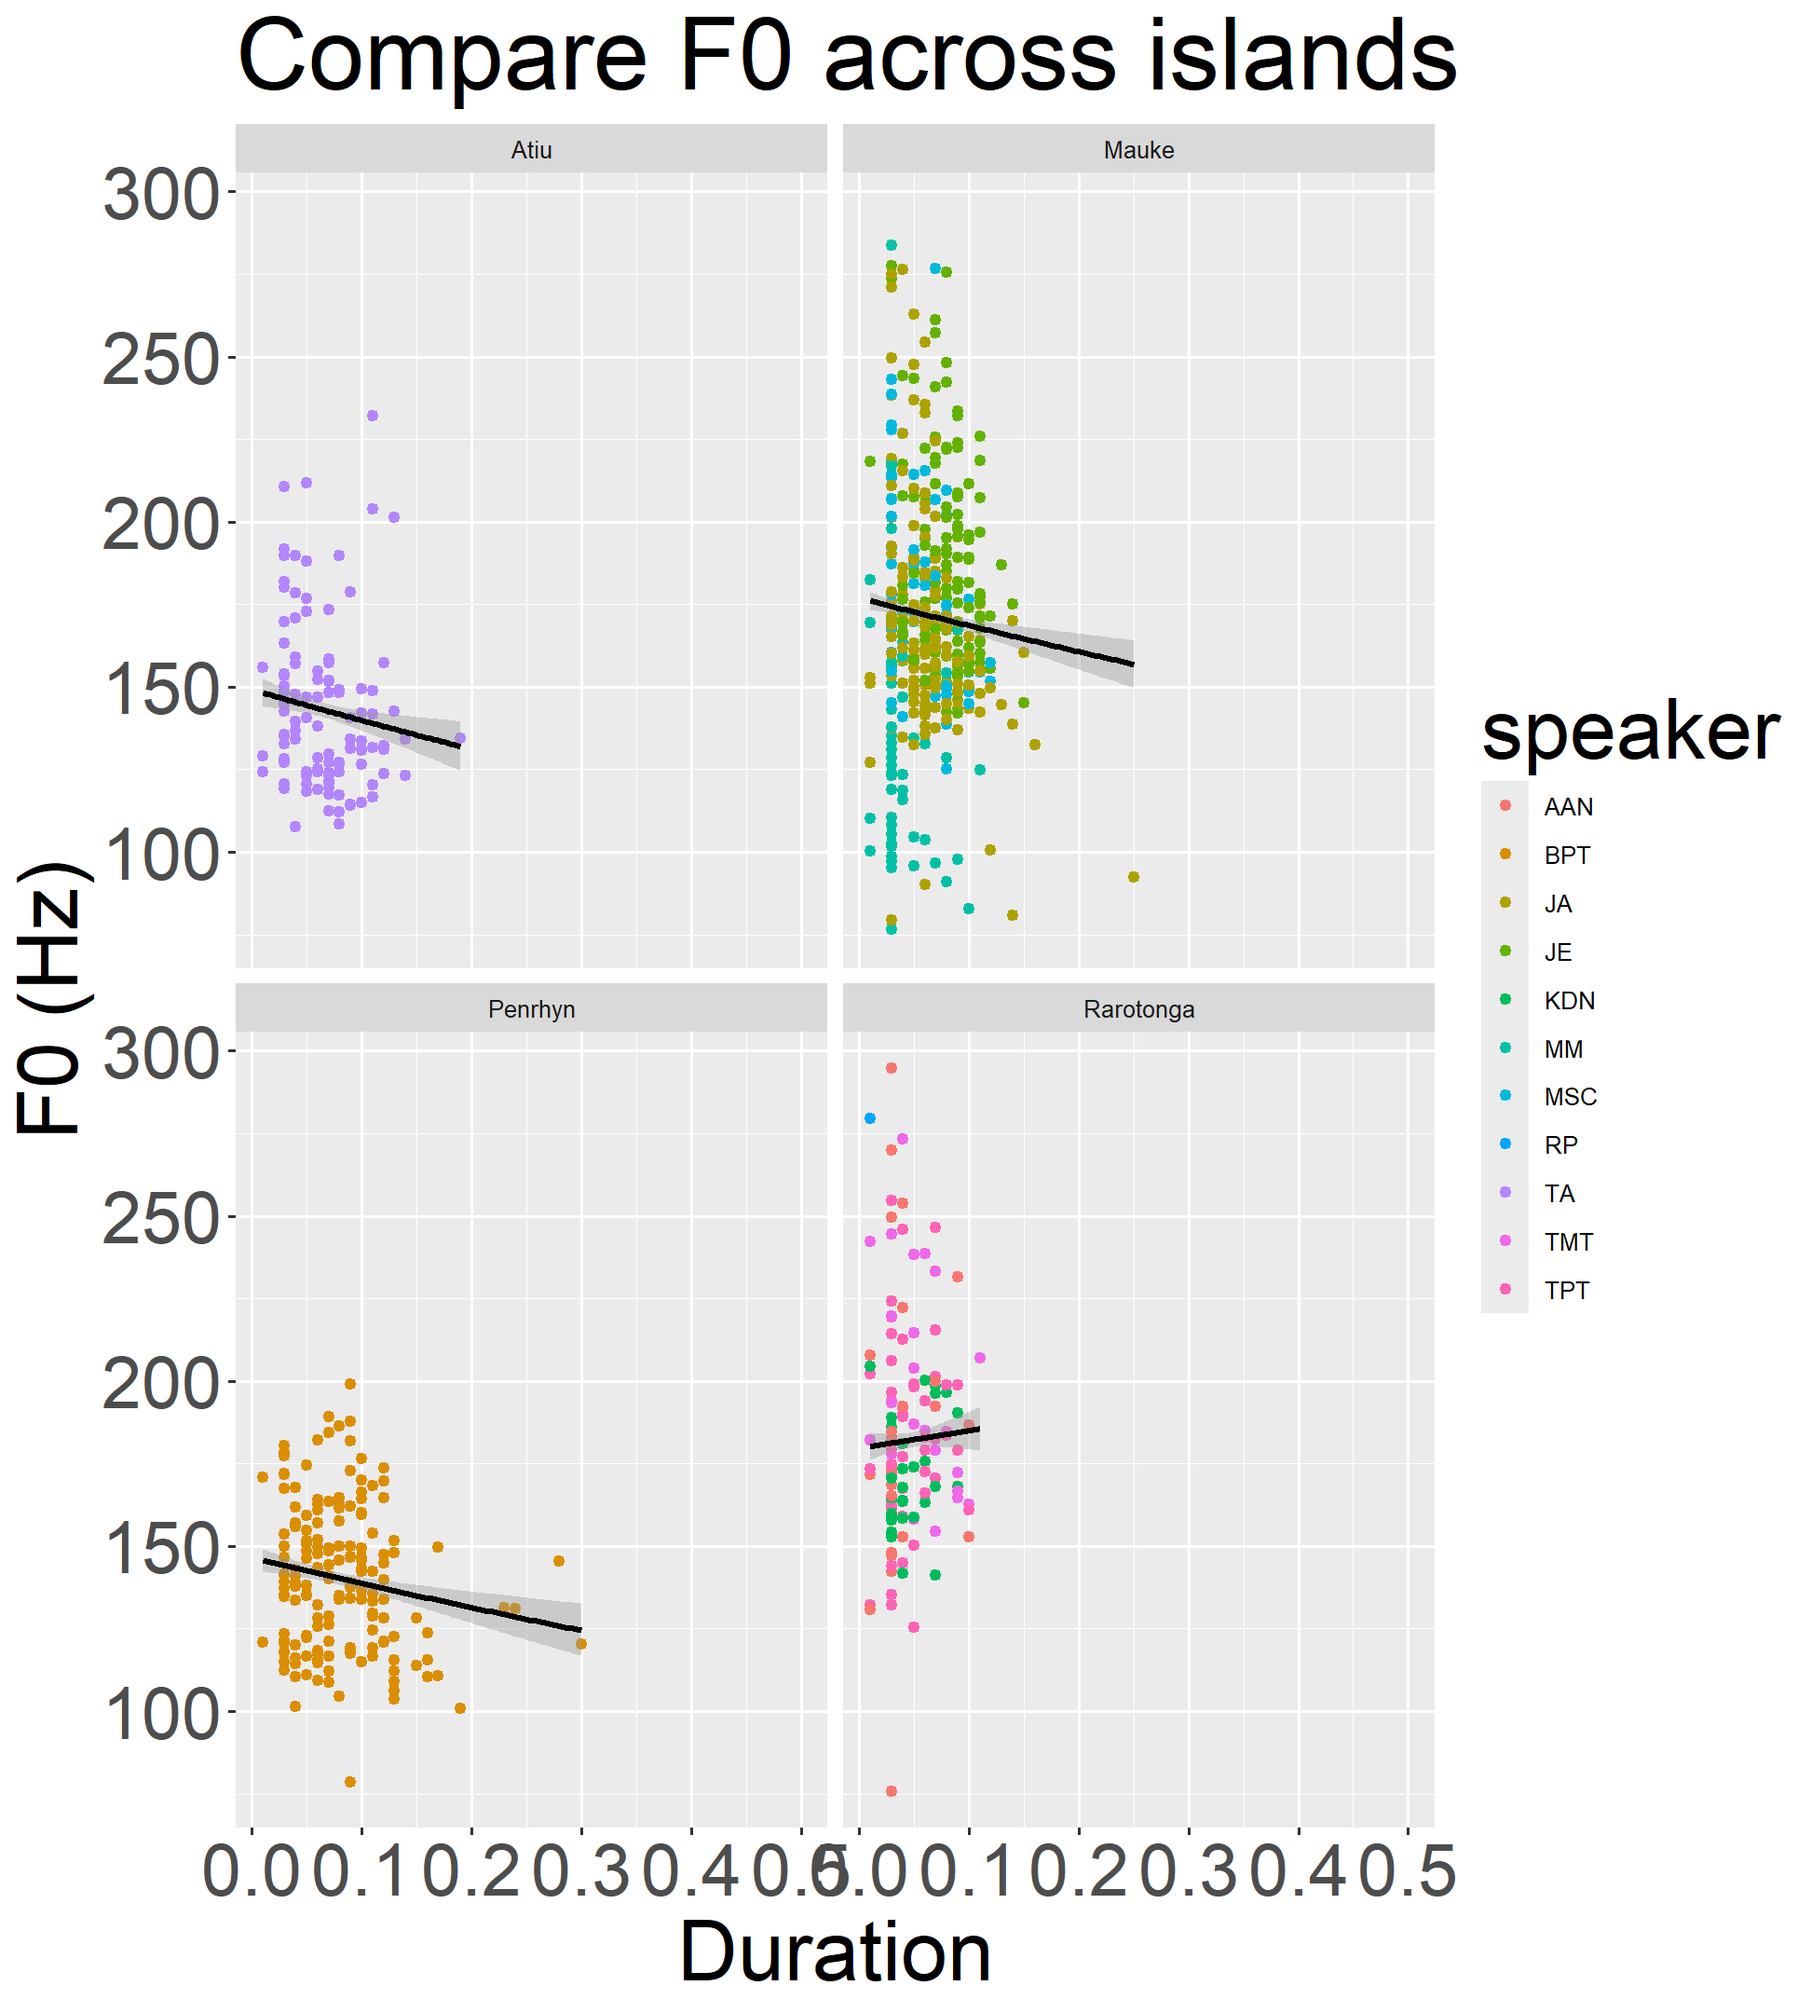
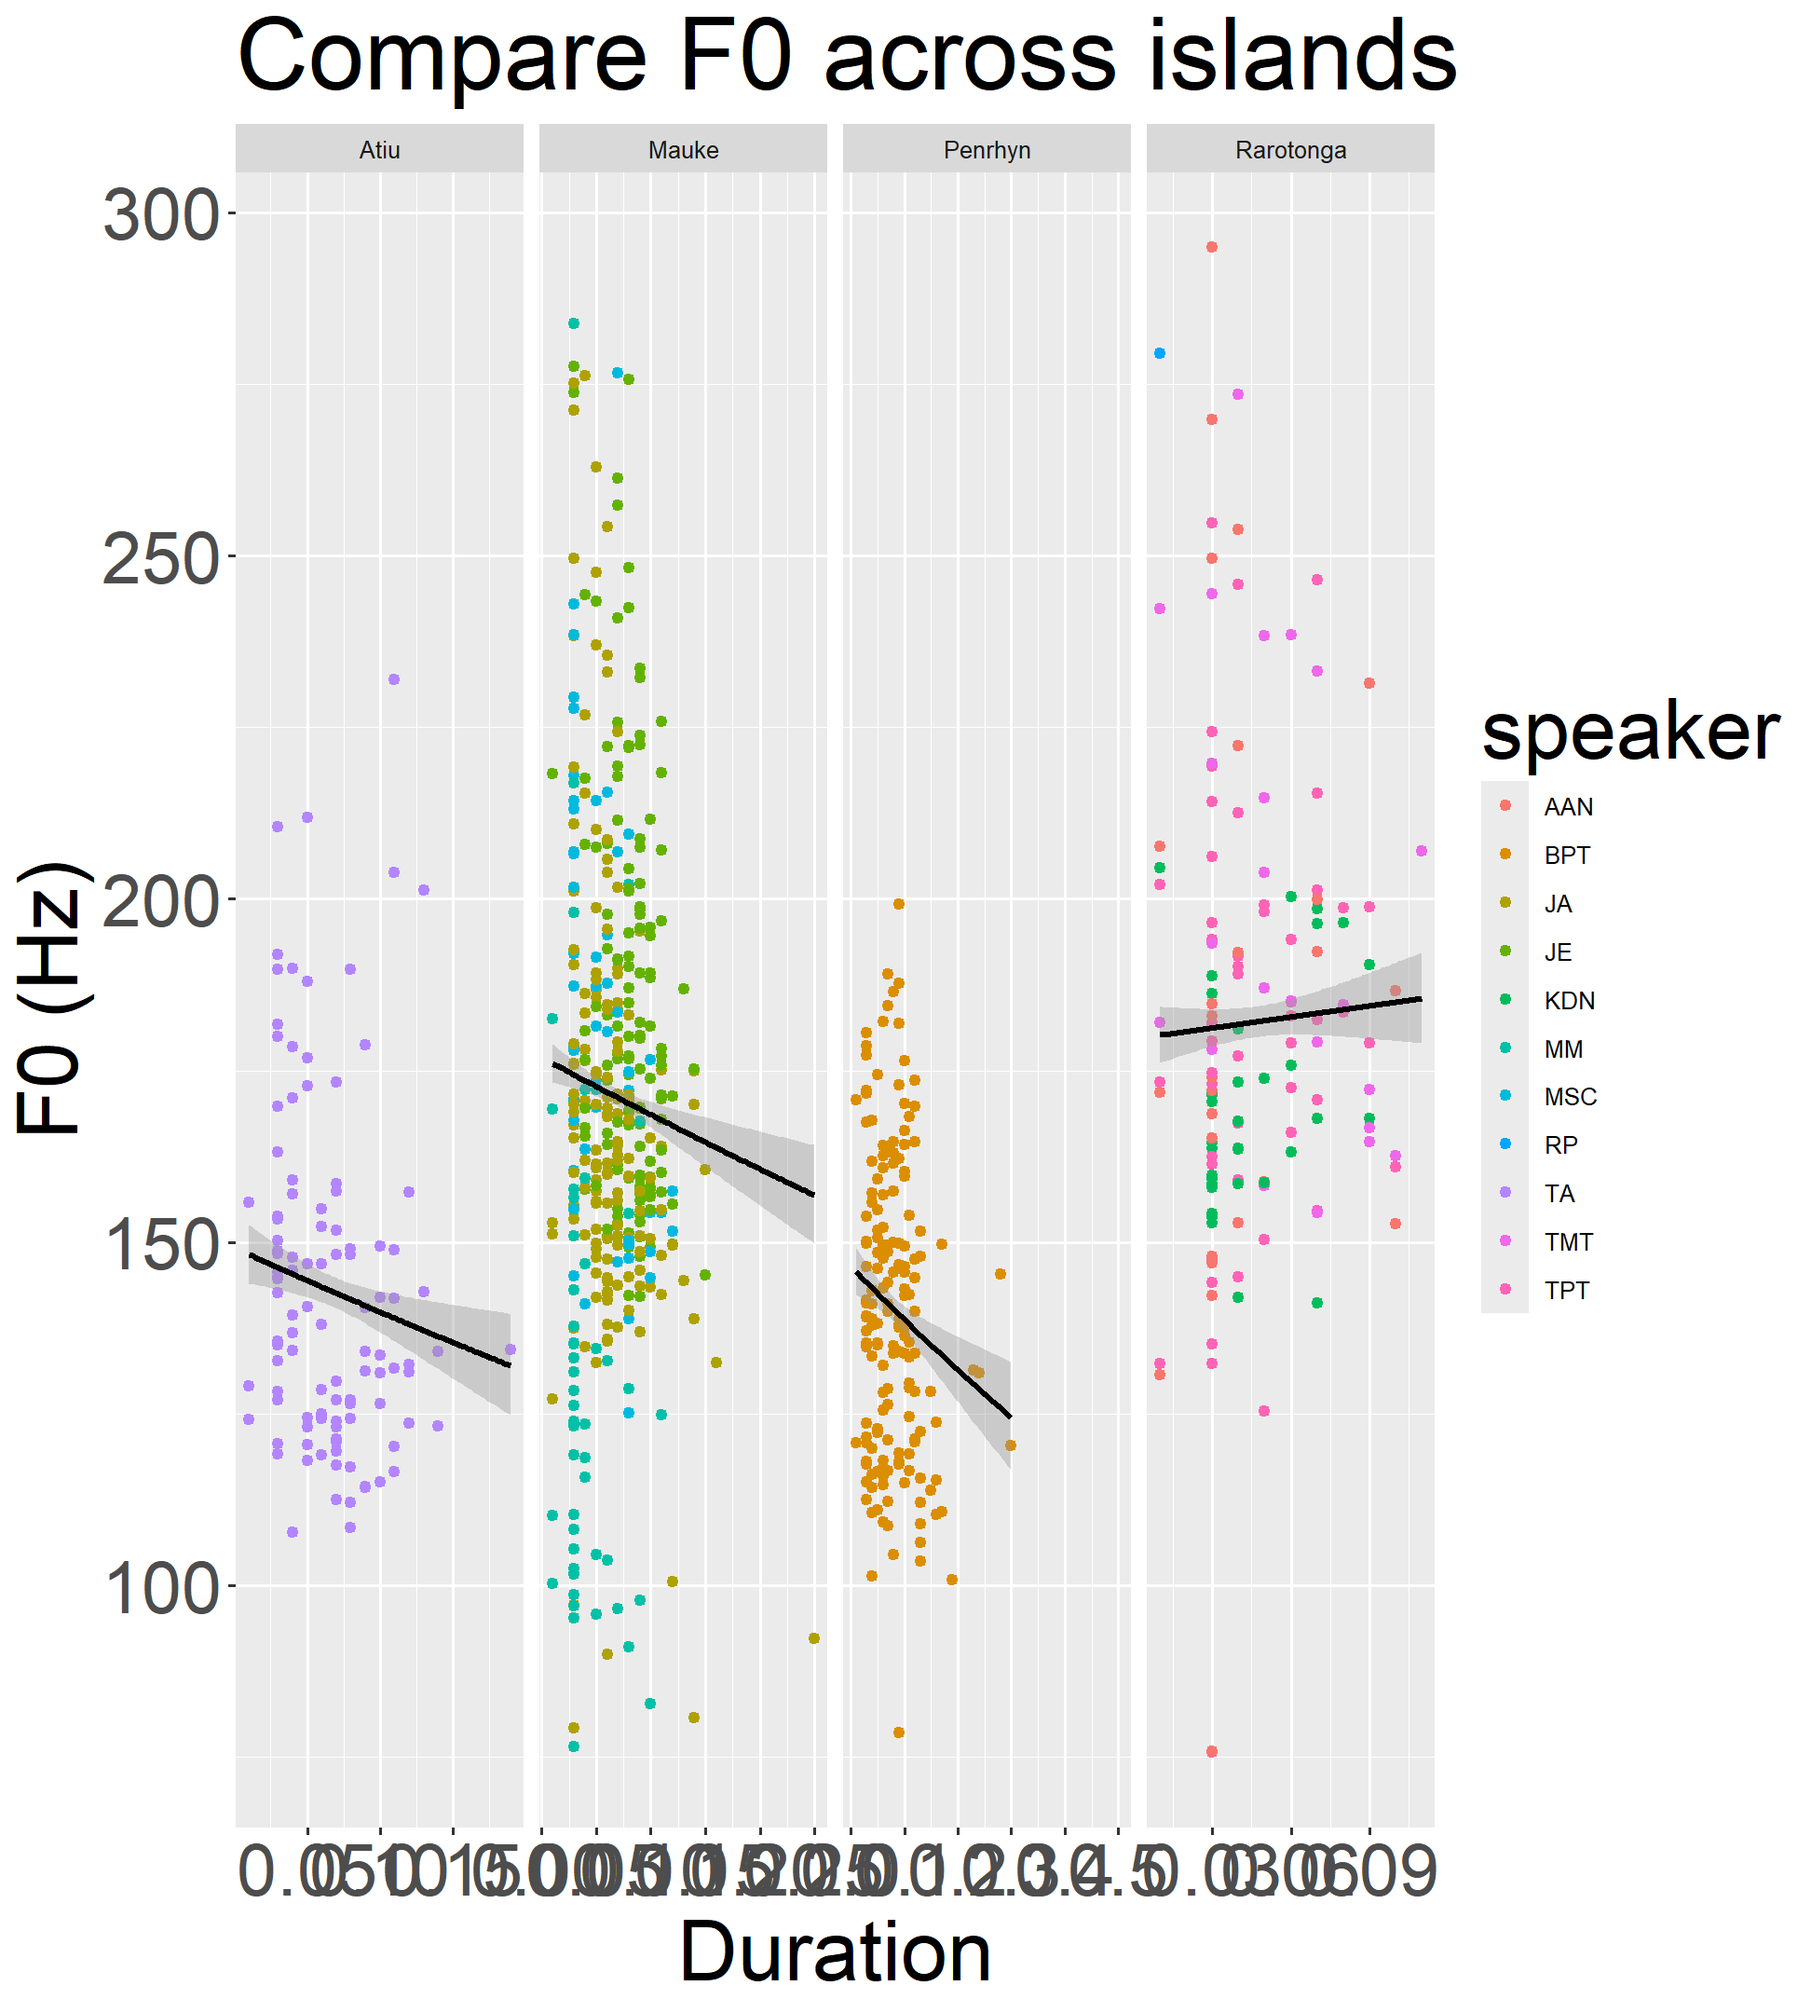
slides updated after pres

diff --git a/index.html b/index.html
@@ -4,7 +4,7 @@
     <title>[v] across Cook Islands Māori (CIM)</title>
     <meta charset="utf-8" />
     <meta name="author" content="Quartz Colvin" />
-    <meta name="date" content="2025-05-04" />
+    <meta name="date" content="2025-05-05" />
     <script src="libs/header-attrs-2.29/header-attrs.js"></script>
     <link href="libs/remark-css-0.0.1/rutgers.css" rel="stylesheet" />
     <link href="libs/remark-css-0.0.1/rutgers-fonts.css" rel="stylesheet" />
@@ -26,7 +26,7 @@ class: center, middle, inverse, title-slide
 ### Rutgers University
 ]
 .date[
-### 2025-05-04
+### 2025-05-05
 ]
 
 ---
@@ -240,16 +240,44 @@ plot_dur &lt;- tidy_dur |&gt;
 
 
 ``` r
-mod_dur &lt;- lm(formula = duration ~ island, data = tidy_dur)
+mod_dur &lt;- lmer(duration ~ island + (1|speaker) + (1|word), data = tidy_dur)
 ```
 
 
-|term            |   estimate| std.error|  statistic|   p.value|
-|:---------------|----------:|---------:|----------:|---------:|
-|(Intercept)     |  0.0660169| 0.0033898| 19.4750727| 0.0000000|
-|islandMauke     | -0.0003532| 0.0038067| -0.0927931| 0.9260887|
-|islandPenrhyn   |  0.0179242| 0.0044121|  4.0624899| 0.0000528|
-|islandRarotonga | -0.0208246| 0.0044925| -4.6354104| 0.0000041|
+```
+## Linear mixed model fit by REML. t-tests use Satterthwaite's method [
+## lmerModLmerTest]
+## Formula: duration ~ island + (1 | speaker) + (1 | word)
+##    Data: tidy_dur
+## 
+## REML criterion at convergence: -3416.3
+## 
+## Scaled residuals: 
+##     Min      1Q  Median      3Q     Max 
+## -2.8215 -0.5539 -0.0851  0.4095  7.5763 
+## 
+## Random effects:
+##  Groups   Name        Variance  Std.Dev.
+##  word     (Intercept) 0.0007328 0.02707 
+##  speaker  (Intercept) 0.0001517 0.01231 
+##  Residual             0.0010189 0.03192 
+## Number of obs: 896, groups:  word, 145; speaker, 11
+## 
+## Fixed effects:
+##                  Estimate Std. Error        df t value Pr(&gt;|t|)   
+## (Intercept)      0.064761   0.013130  6.339137   4.932  0.00225 **
+## islandMauke     -0.001702   0.014390  5.858906  -0.118  0.90982   
+## islandPenrhyn    0.019477   0.018068  5.690570   1.078  0.32459   
+## islandRarotonga -0.018439   0.014557  6.292463  -1.267  0.25014   
+## ---
+## Signif. codes:  0 '***' 0.001 '**' 0.01 '*' 0.05 '.' 0.1 ' ' 1
+## 
+## Correlation of Fixed Effects:
+##             (Intr) islndM islndP
+## islandMauke -0.876              
+## islndPnrhyn -0.698  0.637       
+## islandRrtng -0.869  0.793  0.632
+```
 
 **P-value** &gt; 0.05 only for Mauke. 
 
@@ -314,16 +342,44 @@ plot_intense &lt;- tidy_intense |&gt;
 
 
 ``` r
-mod_intense &lt;- lm(formula = intensity ~ island, data = tidy_intense)
+mod_intense &lt;- lmer(intensity ~ island + (1|speaker) + (1|word), data = tidy_intense)
 ```
 
 
-|term            |   estimate| std.error|  statistic|   p.value|
-|:---------------|----------:|---------:|----------:|---------:|
-|(Intercept)     | 57.4682172| 0.8418656| 68.2629370| 0.0000000|
-|islandMauke     |  2.2841738| 0.9458247|  2.4150075| 0.0159356|
-|islandPenrhyn   | -6.9840858| 1.0957577| -6.3737500| 0.0000000|
-|islandRarotonga |  0.0787305| 1.1157213|  0.0705647| 0.9437601|
+```
+## Linear mixed model fit by REML. t-tests use Satterthwaite's method [
+## lmerModLmerTest]
+## Formula: intensity ~ island + (1 | speaker) + (1 | word)
+##    Data: tidy_intense
+## 
+## REML criterion at convergence: 5865.9
+## 
+## Scaled residuals: 
+##     Min      1Q  Median      3Q     Max 
+## -4.2068 -0.5148  0.1031  0.5991  2.5860 
+## 
+## Random effects:
+##  Groups   Name        Variance Std.Dev.
+##  word     (Intercept)  19.16    4.377  
+##  speaker  (Intercept) 117.38   10.834  
+##  Residual              34.24    5.851  
+## Number of obs: 894, groups:  word, 145; speaker, 11
+## 
+## Fixed effects:
+##                 Estimate Std. Error     df t value Pr(&gt;|t|)   
+## (Intercept)       57.919     10.864  6.184   5.331  0.00161 **
+## islandMauke        2.534     12.137  6.165   0.209  0.84133   
+## islandPenrhyn     -7.853     15.347  6.156  -0.512  0.62670   
+## islandRarotonga    2.095     11.947  6.261   0.175  0.86632   
+## ---
+## Signif. codes:  0 '***' 0.001 '**' 0.01 '*' 0.05 '.' 0.1 ' ' 1
+## 
+## Correlation of Fixed Effects:
+##             (Intr) islndM islndP
+## islandMauke -0.894              
+## islndPnrhyn -0.707  0.633       
+## islandRrtng -0.908  0.813  0.643
+```
 --
 
 **P-value** &gt; 0.05 for Rarotonga. Also, it's basically 0 for both Atiu and Penrhyn. 
@@ -431,7 +487,6 @@ tidy_f0 &lt;- untidy_data |&gt;
 ---
 # F0 by island 
 
-.pull-left[
 ## Plot!!
 
 
@@ -445,20 +500,22 @@ f0_plot &lt;- tidy_f0 |&gt;
     color="black",
     method.args = list(family = "poisson")
   ) +
-  facet_wrap(~island) +
+  facet_grid(.~island,
+             scales = "free_x") +
   labs(
     title = "Compare F0 across islands", 
     x = "Duration", 
     y = "F0 (Hz)"
   ) 
 ```
-]
 
---
 
-.pull-right[
+---
+# F0 plot
+
+
 &lt;img src="index_files/figure-html/print-f0-plot-1.png" width="648" /&gt;
-]
+
 
 ---
 # F0 by island 
@@ -468,16 +525,44 @@ f0_plot &lt;- tidy_f0 |&gt;
 
 
 ``` r
-mod_f0 &lt;- lm(formula = f0 ~ island, data = tidy_f0)
+mod_f0 &lt;- lmer(f0 ~ island + (1|speaker) + (1|word), data = tidy_f0)
 ```
 
 
-|term            |   estimate| std.error|  statistic|   p.value|
-|:---------------|----------:|---------:|----------:|---------:|
-|(Intercept)     | 142.918645|  3.035068| 47.0891047| 0.0000000|
-|islandMauke     |  28.459157|  3.424019|  8.3116241| 0.0000000|
-|islandPenrhyn   |  -2.622361|  3.932225| -0.6668898| 0.5050263|
-|islandRarotonga |  39.161194|  4.081586|  9.5946014| 0.0000000|
+```
+## Linear mixed model fit by REML. t-tests use Satterthwaite's method [
+## lmerModLmerTest]
+## Formula: f0 ~ island + (1 | speaker) + (1 | word)
+##    Data: tidy_f0
+## 
+## REML criterion at convergence: 8097.3
+## 
+## Scaled residuals: 
+##     Min      1Q  Median      3Q     Max 
+## -3.8763 -0.6582 -0.1477  0.5171  5.0606 
+## 
+## Random effects:
+##  Groups   Name        Variance Std.Dev.
+##  word     (Intercept) 130.1    11.41   
+##  speaker  (Intercept) 592.5    24.34   
+##  Residual             822.2    28.67   
+## Number of obs: 841, groups:  word, 134; speaker, 11
+## 
+## Fixed effects:
+##                 Estimate Std. Error      df t value Pr(&gt;|t|)   
+## (Intercept)      140.935     24.584   3.466   5.733  0.00702 **
+## islandMauke       24.229     27.450   3.448   0.883  0.43464   
+## islandPenrhyn     -3.145     34.660   3.423  -0.091  0.93276   
+## islandRarotonga   49.950     27.269   3.564   1.832  0.14965   
+## ---
+## Signif. codes:  0 '***' 0.001 '**' 0.01 '*' 0.05 '.' 0.1 ' ' 1
+## 
+## Correlation of Fixed Effects:
+##             (Intr) islndM islndP
+## islandMauke -0.893              
+## islndPnrhyn -0.707  0.633       
+## islandRrtng -0.899  0.805  0.638
+```
 
 --
 
@@ -559,16 +644,44 @@ f2_plot &lt;- tidy_f2 |&gt;
 
 
 ``` r
-mod_f2 &lt;- lm(formula = f2 ~ island, data = tidy_f2)
+mod_f2 &lt;- lmer(f2 ~ island + (1|speaker) + (1|word), data = tidy_f2)
 ```
 
 
-|term            |  estimate| std.error| statistic| p.value|
-|:---------------|---------:|---------:|---------:|-------:|
-|(Intercept)     | 1090.9432|  39.79288| 27.415534|       0|
-|islandMauke     |  308.5190|  44.70677|  6.900944|       0|
-|islandPenrhyn   |  373.9431|  51.79373|  7.219853|       0|
-|islandRarotonga |  360.9223|  52.73736|  6.843768|       0|
+```
+## Linear mixed model fit by REML. t-tests use Satterthwaite's method [
+## lmerModLmerTest]
+## Formula: f2 ~ island + (1 | speaker) + (1 | word)
+##    Data: tidy_f2
+## 
+## REML criterion at convergence: 13277
+## 
+## Scaled residuals: 
+##     Min      1Q  Median      3Q     Max 
+## -2.1832 -0.6452 -0.1646  0.5206  4.0860 
+## 
+## Random effects:
+##  Groups   Name        Variance Std.Dev.
+##  word     (Intercept)  37558   193.80  
+##  speaker  (Intercept)   4625    68.01  
+##  Residual             155390   394.20  
+## Number of obs: 894, groups:  word, 145; speaker, 11
+## 
+## Fixed effects:
+##                 Estimate Std. Error       df t value Pr(&gt;|t|)    
+## (Intercept)     1142.411     83.412    5.643  13.696 1.52e-05 ***
+## islandMauke      297.881     90.354    4.946   3.297  0.02190 *  
+## islandPenrhyn    384.930    111.231    4.466   3.461  0.02162 *  
+## islandRarotonga  389.099     94.770    6.027   4.106  0.00626 ** 
+## ---
+## Signif. codes:  0 '***' 0.001 '**' 0.01 '*' 0.05 '.' 0.1 ' ' 1
+## 
+## Correlation of Fixed Effects:
+##             (Intr) islndM islndP
+## islandMauke -0.862              
+## islndPnrhyn -0.703  0.648       
+## islandRrtng -0.829  0.769  0.626
+```
 
 --
 
